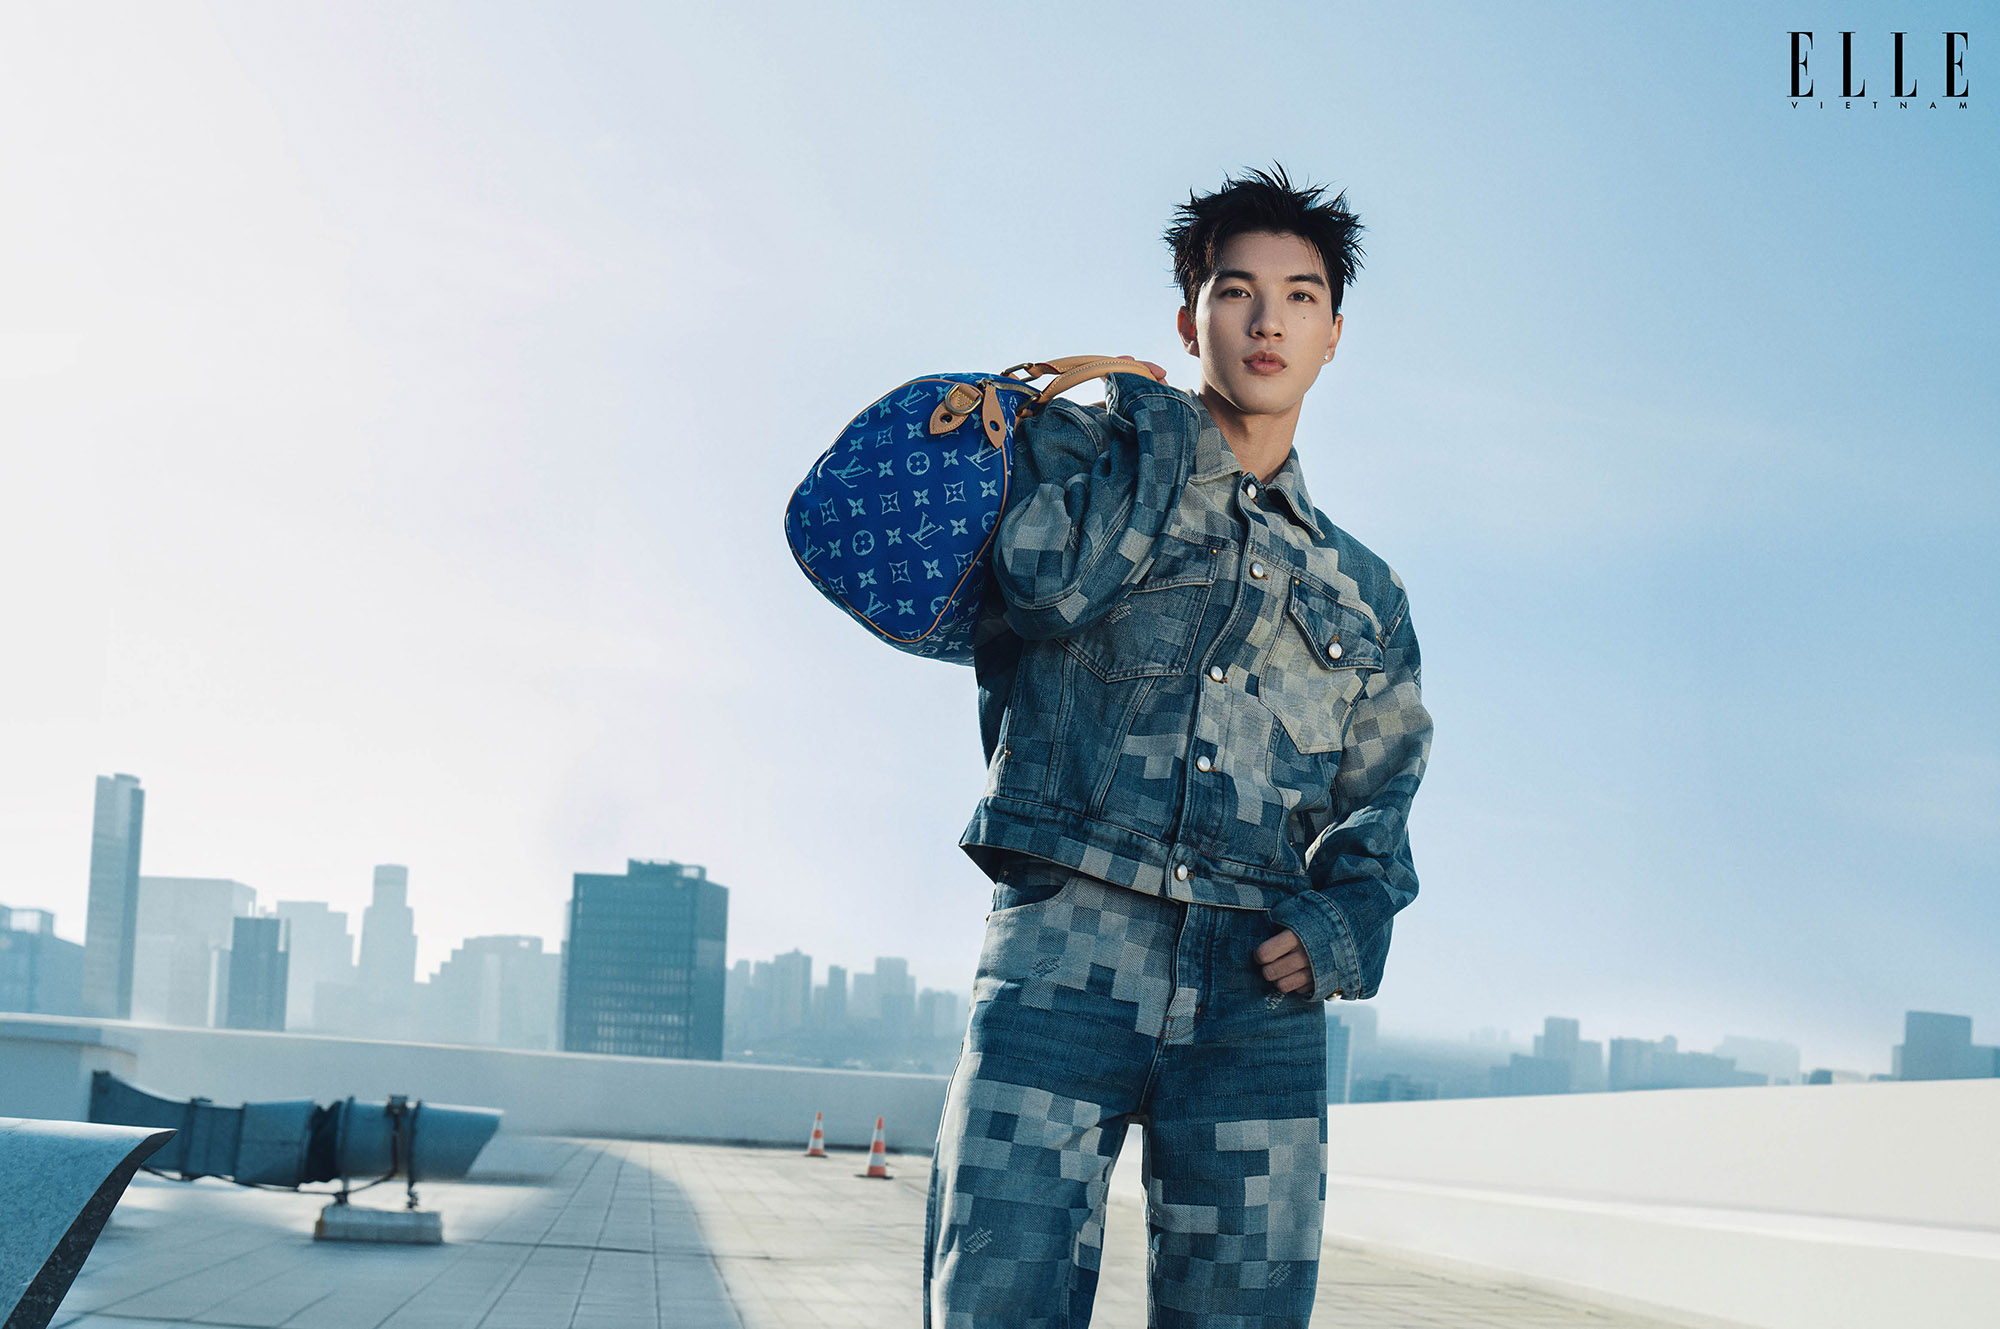
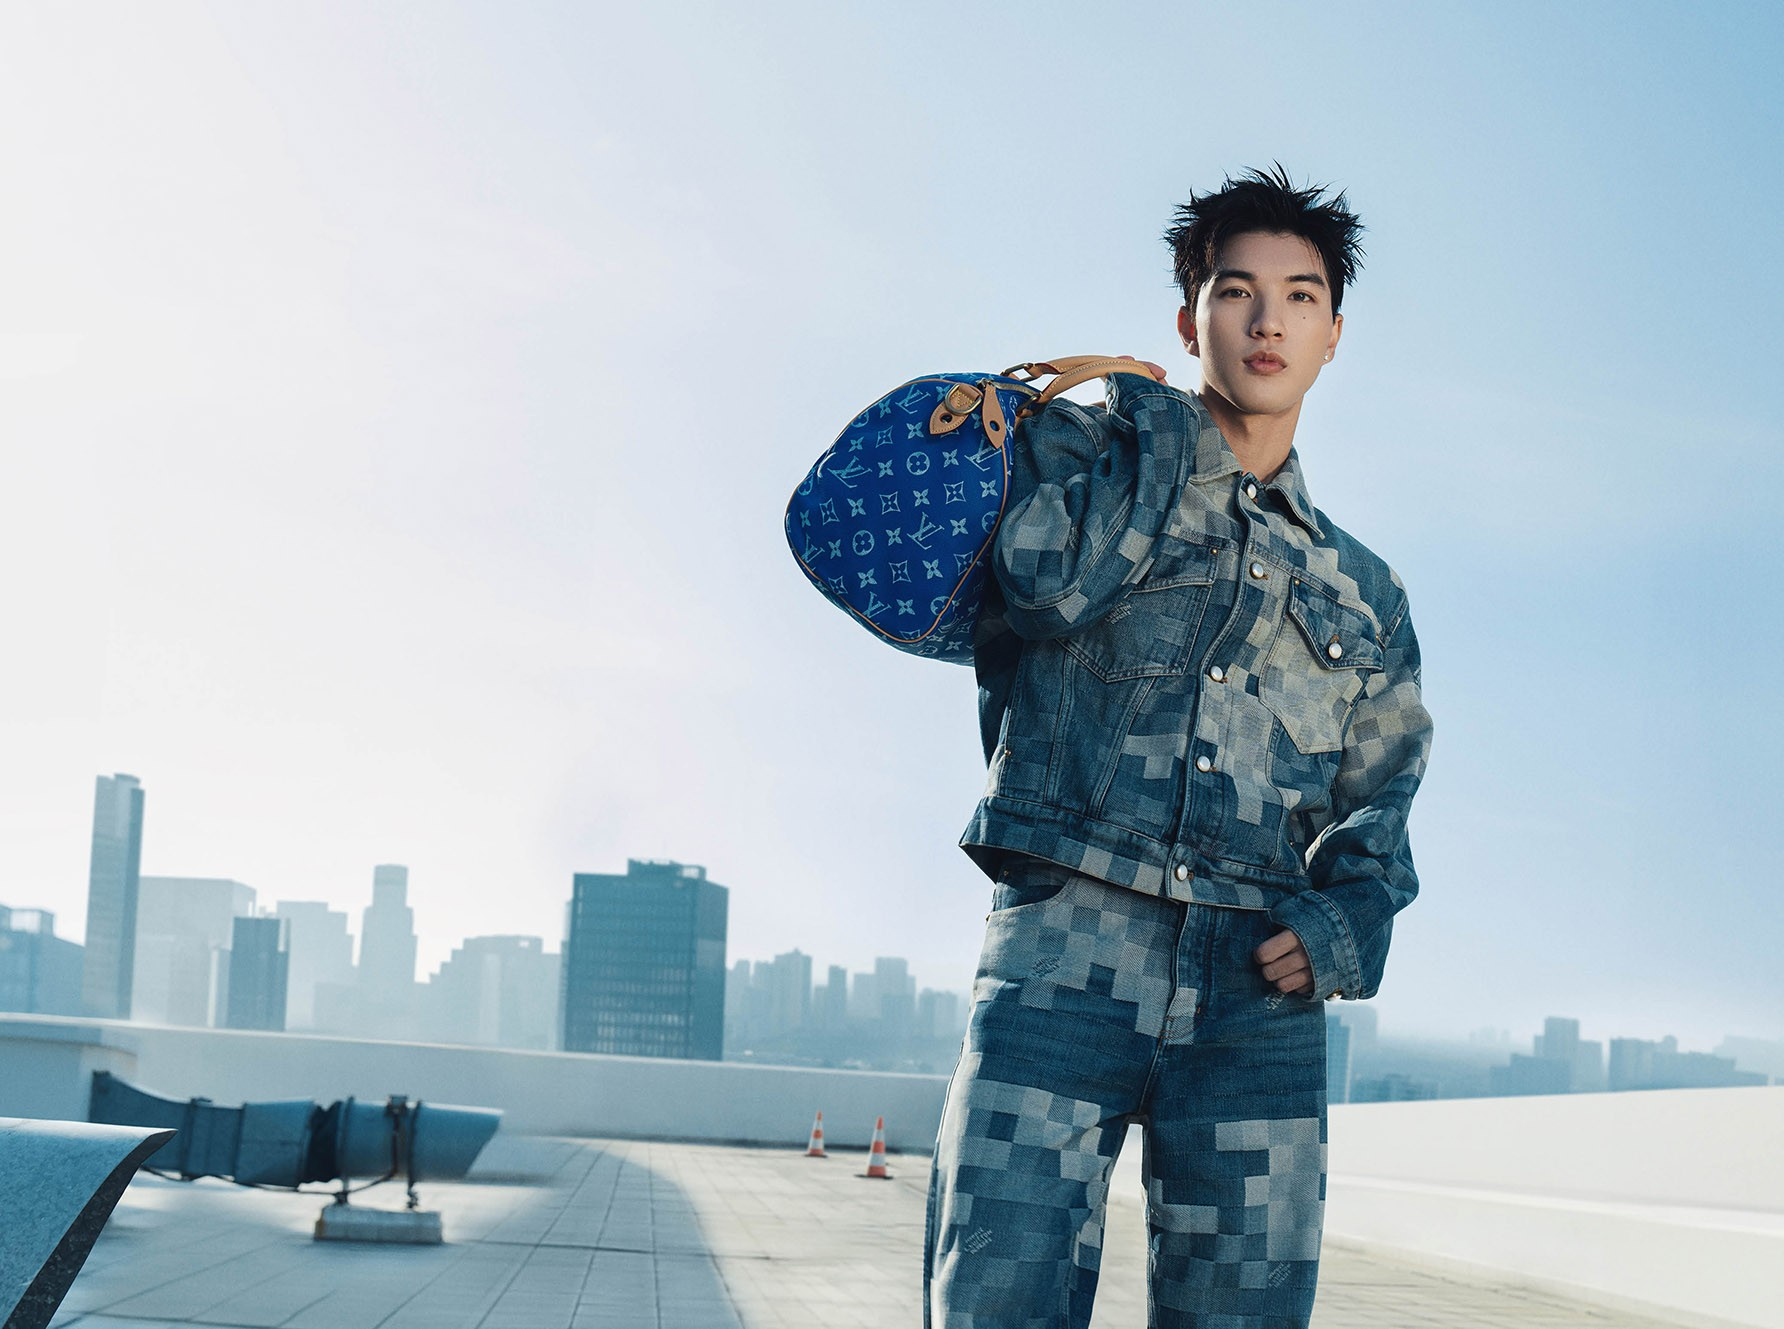
Create and fix Homepage UI

diff --git a/src/pages/HomePages/HomePage.jsx b/src/pages/HomePages/HomePage.jsx
@@ -1,24 +1,85 @@
-import Box from "@mui/material/Box";
-import Container from "@mui/material/Container";
-import ModeSelect from "../../components/ModeSelect/ModeSelect";
+import ChevronLeftIcon from "@mui/icons-material/ChevronLeft";
+import ChevronRightTwoToneIcon from "@mui/icons-material/ChevronRightTwoTone";
+import SearchIcon from "@mui/icons-material/Search";
+import HomeIcon from "@mui/icons-material/Home";
+import PersonOutlineOutlinedIcon from "@mui/icons-material/PersonOutlineOutlined";
+
+import { itemLoginData } from "../../constants/LoginData";
+import { useState } from "react";
+
+import "../../styles/HomePage.css";
+import Header from "../../components/header/Header";
+import CustomTooltip from "../../components/CustomTooltip/CustomTooltip";
+import { useNavigate } from "react-router-dom";
 
 const HomePage = () => {
+  // Navigate
+  const navigate = useNavigate();
+
+  // Xử lí Background
+  const [currentImageIndex, setCurrentImageIndex] = useState(0);
+
+  // Background Tiếp theo
+  const handleNextImage = () => {
+    setCurrentImageIndex((prevIndex) => (prevIndex + 1) % itemLoginData.length);
+  };
+  // Background Trước
+  const handlePrevImage = () => {
+    setCurrentImageIndex(
+      (prevIndex) =>
+        (prevIndex - 1 + itemLoginData.length) % itemLoginData.length
+    );
+  };
+
   return (
     <>
-      <Container disableGutters maxWidth={false}>
-        <Box
-          sx={{
-            width: "100%",
-            height: (theme) => theme.fashion.appBarHeight,
-            display: "flex",
-            alignItems: "center",
-            backgroundColor: (theme) => theme.palette.background.default,
-            color: (theme) => theme.palette.text.primary,
-          }}
-        >
-          <ModeSelect />
-        </Box>
-      </Container>
+      {/* Homepage Container */}
+      <div
+        className="home-page-container"
+        style={{
+          backgroundImage: `url(${itemLoginData[currentImageIndex].img})`,
+          backgroundSize: "cover",
+        }}
+      >
+        {/* Header */}
+        <Header />
+        {/* Nút trái */}
+        <button onClick={handlePrevImage} className="image-nav-button">
+          <ChevronLeftIcon />
+        </button>
+        {/* Nút phải */}
+        <button onClick={handleNextImage} className="image-nav-button">
+          <ChevronRightTwoToneIcon />
+        </button>
+
+        {/* Homepage icons */}
+        <div className="home-page-icons">
+          <CustomTooltip title="Trang chủ">
+            <div onClick={() => navigate("/")} style={{ cursor: "pointer" }}>
+              <HomeIcon className="home-page-icon home" fontSize="small" />
+            </div>
+          </CustomTooltip>
+          <CustomTooltip title="Tìm kiếm">
+            <SearchIcon className="home-page-icon search" fontSize="small" />
+          </CustomTooltip>
+          <CustomTooltip title="Tài khoản cá nhân">
+            <PersonOutlineOutlinedIcon
+              className="home-page-icon profile"
+              fontSize="small"
+            />
+          </CustomTooltip>
+        </div>
+
+        {/* Dấu chấm chỉ sốsố */}
+        <div className="dot-indicator-container">
+          {itemLoginData.map((_, index) => (
+            <div
+              key={index}
+              className={`dot ${index === currentImageIndex ? "active" : ""}`}
+            ></div>
+          ))}
+        </div>
+      </div>
     </>
   );
 };

diff --git a/src/styles/Header.css b/src/styles/Header.css
@@ -1,0 +1,119 @@
+/* Tổng thể Header */
+.header-container {
+    display: flex;
+    justify-content: space-between;
+    align-items: center;
+    padding: 10px 20px;
+    background-color: transparent;
+    color: #333;
+    font-family: "Poppins", sans-serif;
+    position: fixed;
+    top: 0;
+    left: 0;
+    right: 0;
+    z-index: 1000;
+    height: 5rem;
+    transition: background-color 0.3s ease, color 0.3s ease;
+}
+
+/* Thay đổi khi cuộn */
+.header.scrolled {
+    background-color: white;
+    color: black;
+    border-bottom: 2px solid #EEEEEE;
+}
+
+/* Logo */
+.header-logo {
+    margin-left: 4rem;
+}
+
+.header-logo a {
+    text-decoration: none;
+    font-size: 1.5rem;
+    font-weight: bold;
+    color: inherit;
+    letter-spacing: 1px;
+    transition: color 0.3s ease;
+}
+
+.header-logo a:hover {
+    color: black;
+}
+
+/* Menu điều hướng */
+.header-nav ul {
+    display: flex;
+    gap: 20px;
+    list-style: none;
+    margin: 0;
+    padding: 0;
+}
+
+.header-nav ul li a {
+    text-decoration: none;
+    color: inherit;
+    font-size: 1rem;
+    font-weight: 500;
+    padding: 5px;
+    transition: color 0.3s ease;
+}
+
+.header-nav ul li a:hover {
+    color: black;
+    border-bottom: 1px solid black;
+}
+
+/* Icon điều hướng */
+.header-nav-icon {
+    display: flex;
+    align-items: center;
+    gap: 2rem;
+    margin-right: 4rem;
+}
+
+.header-nav-icon svg {
+    cursor: pointer;
+    transition: color 0.3s ease;
+}
+
+.header-nav-icon svg:hover {
+    color: black;
+}
+
+/* Dropdown menu */
+.dropdown-menu {
+    position: absolute;
+    top: 100%;
+    right: 0;
+    background-color: white;
+    border: 1px solid #ccc;
+    border-radius: 5px;
+    box-shadow: 0 4px 6px rgba(0, 0, 0, 0.1);
+    z-index: 1000;
+    width: 200px;
+}
+
+.dropdown-menu ul {
+    list-style: none;
+    margin: 0;
+    padding: 0;
+}
+
+.dropdown-menu ul li {
+    padding: 10px 16px;
+    font-size: 0.9rem;
+    cursor: pointer;
+    color: #333;
+    border-bottom: 1px solid #eee;
+    transition: background-color 0.3s ease, color 0.3s ease;
+}
+
+.dropdown-menu ul li:last-child {
+    border-bottom: none;
+}
+
+.dropdown-menu ul li:hover {
+    background-color: #f0f0f0;
+    color: black;
+}   

diff --git a/src/components/Header/Header.jsx b/src/components/Header/Header.jsx
@@ -1,0 +1,61 @@
+import { Badge } from "@mui/material";
+import ShoppingCartOutlinedIcon from "@mui/icons-material/ShoppingCartOutlined";
+import FavoriteBorderOutlinedIcon from "@mui/icons-material/FavoriteBorderOutlined";
+import LoginIcon from "@mui/icons-material/Login";
+import "../../styles/Header.css";
+import "../../styles/Tooltip.css";
+import { useNavigate } from "react-router-dom";
+import CustomTooltip from "../CustomTooltip/CustomTooltip";
+
+const Header = () => {
+  const navigate = useNavigate();
+  const handleLoginIconButton = () => {
+    navigate("/levents/login");
+  };
+
+  return (
+    <header className="header-container">
+      {/* Header Logo */}
+      <div className="header-logo">
+        <CustomTooltip title="Trang chủ">
+          <a href="/">Levents</a>
+        </CustomTooltip>
+      </div>
+      {/* Header Nav */}
+      <nav className="header-nav">
+        <ul>
+          <li className="header-li">
+            <a href="/">Trang chủ</a>
+          </li>
+          <li className="header-li">
+            <a href="/about">Thông tin</a>
+          </li>
+          <li className="header-li">
+            <a href="#services">Dịch vụ</a>
+          </li>
+          <li className="header-li">
+            <a href="#contact">Liên hệ</a>
+          </li>
+        </ul>
+      </nav>
+      {/* Header Icon */}
+      <div className="header-nav-icon">
+        <CustomTooltip title="Giỏ hàng">
+          <Badge color="info" badgeContent={0}>
+            <ShoppingCartOutlinedIcon fontSize="medium" />
+          </Badge>
+        </CustomTooltip>
+        <CustomTooltip title="Sản phẩm yêu thích">
+          <Badge color="info" badgeContent={0}>
+            <FavoriteBorderOutlinedIcon fontSize="medium" />
+          </Badge>
+        </CustomTooltip>
+        <CustomTooltip title="Đăng nhập">
+          <LoginIcon onClick={handleLoginIconButton} />
+        </CustomTooltip>
+      </div>
+    </header>
+  );
+};
+
+export default Header;

diff --git a/src/styles/HomePage.css b/src/styles/HomePage.css
@@ -1,0 +1,56 @@
+.home-page-container{
+    width: 100%;
+    height: 100vh;
+
+    position: relative; /* Để định vị các phần tử con */
+    display: flex;
+    flex-direction: column;
+    justify-content: flex-end; /* Đẩy nội dung xuống dưới */
+    align-items: center;
+    padding-bottom: 5rem; /* Khoảng cách giữa icon và mép dưới */
+}
+.home-page-icons{
+    display: flex;
+    justify-content: center;
+    align-items: center;
+    gap: 10rem;
+    position: absolute;
+    bottom: 4rem; /* Điều chỉnh vị trí so với đáy */
+    z-index: 2; /* Đảm bảo icon hiển thị phía trên chấm tròn */
+}
+
+.home-page-icon.home, 
+.home-page-icon.profile{
+    border-radius: 50%;
+    background-color: white;
+    width: 2.5rem;
+    height: 2.5rem;
+    padding: 8px;
+}
+.home-page-icon.search{
+    border-radius: 50%;
+    background-color: white;
+    width: 3.25rem;
+    height: 3.25rem;
+    padding: 10px;
+}
+.dot-indicator-container {
+    display: flex;
+    justify-content: center;
+    gap: 0.5rem;
+    position: absolute;
+    bottom: 2rem; /* Điều chỉnh vị trí chấm tròn */
+    z-index: 1; /* Đảm bảo chấm tròn nằm phía dưới icon */
+}
+
+.dot {
+    width: 10px;
+    height: 10px;
+    border-radius: 50%;
+    background-color: gray;
+    transition: background-color 0.3s;
+}
+
+.dot.active {
+    background-color: white;
+}

diff --git a/src/components/CustomTooltip/CustomTooltip.jsx b/src/components/CustomTooltip/CustomTooltip.jsx
@@ -1,0 +1,23 @@
+import { styled } from "@mui/material/styles";
+import Tooltip, { tooltipClasses } from "@mui/material/Tooltip";
+
+const StyleTooltip = styled(({ className, ...props }) => (
+  <Tooltip {...props} arrow classes={{ popper: className }} />
+))(({ theme }) => ({
+  [`& .${tooltipClasses.arrow}`]: {
+    color: theme.palette.common.black, // Màu của mũi tên
+  },
+  [`& .${tooltipClasses.tooltip}`]: {
+    backgroundColor: theme.palette.common.black, // Màu nền của tooltip
+    color: "white", // Màu chữ trong tooltip
+    fontSize: "0.7rem", // Tùy chỉnh cỡ chữ (nếu cần)
+  },
+}));
+
+const CustomTooltip = ({ title, children }) => {
+  return <StyleTooltip title={title}>{children}</StyleTooltip>;
+};
+
+CustomTooltip.propTypes;
+
+export default CustomTooltip;

diff --git a/src/App.jsx b/src/App.jsx
@@ -21,6 +21,11 @@ const router = createBrowserRouter([
     path: "*",
     element: <PageNotFound />,
   },
+  {
+    future: {
+      v7_startTransition: true,
+    },
+  },
 ]);
 
 function App() {
